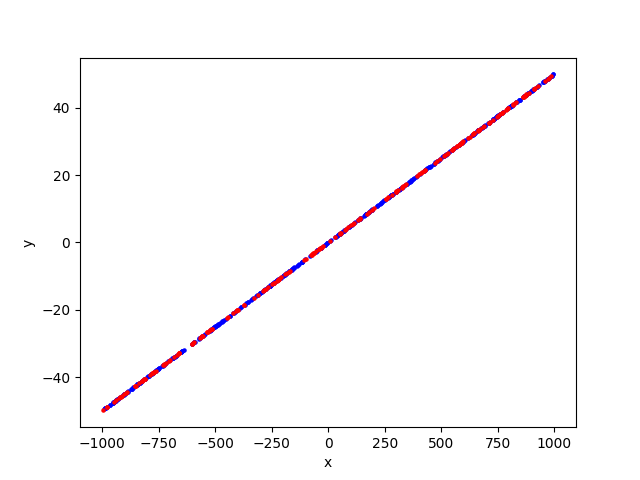
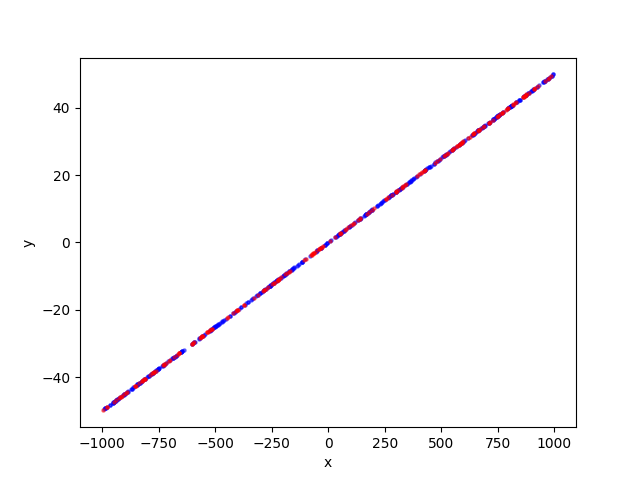
asdfghjk

diff --git a/bitalg/lab1/lab1.py b/bitalg/lab1/lab1.py
@@ -138,11 +138,11 @@ def draw_diff(A,B):
     vis.add_point(B, s=POINT_SIZE, color=['red'])
     vis.show()
 
-def draw_diff_and_save(A,B,filename,line=True, a=1):
+def draw_diff_and_save(A,B,filename,line=True, a=1,size=5):
     vis=Visualizer()
     if line: vis.add_line(((-1.0, 0.0), (1.0, 0.1)), color='green')
-    vis.add_point(A,s=POINT_SIZE,color=['blue'], alpha=a)
-    vis.add_point(B,s=POINT_SIZE,color=['red'], alpha=a)
+    vis.add_point(A,s=size,color=['blue'], alpha=a)
+    vis.add_point(B,s=size,color=['red'], alpha=a)
     vis.show()
     vis.save(filename)
 
@@ -213,10 +213,10 @@ draw_line_and_save(checked_points2[0][0][0],checked_points2[0][0][1],checked_poi
 f = open("points2diffs.txt","x")
 A1,B1=diff_cheker(checked_points2[0][0],checked_points2[0][1])
 print(A1,B1,file=f)
-draw_diff_and_save(A1,B1,"points2_diff_2x2handlib")
+draw_diff_and_save(A1,B1,"points2_diff_2x2handlib",True,1,30)
 A2,B2=diff_cheker(checked_points2[0][0],checked_points2[0][3])
 print(A2,B2,file=f)
-draw_diff_and_save(A2,B2,"points2_dif_2x2hand_3x3hand")
+draw_diff_and_save(A2,B2,"points2_dif_2x2hand_3x3hand",True,1,30)
 f.close()
 
 draw_line_and_save(checked_points_line[0][0][0],checked_points_line[0][0][1],checked_points_line[0][0][2],"points_line_2x2hand_eps0",False)
@@ -229,15 +229,15 @@ draw_spectrum_and_save(checked_points_line,2,"line_spctrum_3x3hand_depth2",1)
 draw_spectrum_and_save(checked_points_line,3,"line_spctrum_3x3lib_depth3",2)
 
 A3,B3=diff_cheker(checked_points_line[0][0],checked_points_line[0][2])
-draw_diff_and_save(A3,B3,"points_line_diff_2x2hand_3x3hand_eps0",False)
+draw_diff_and_save(A3,B3,"points_line_diff_2x2hand_3x3hand_eps0",False,0.5)
 A4,B4=diff_cheker(checked_points_line[0][1],checked_points_line[0][3])
-draw_diff_and_save(A4,B4,"points_line_diff_2x2lib_3x3lib_eps0",False)
+draw_diff_and_save(A4,B4,"points_line_diff_2x2lib_3x3lib_eps0",False,0.5)
 A5,B5=diff_cheker(checked_points_line[1][0],checked_points_line[1][2])
-draw_diff_and_save(A5,B5,"points_line_diff_2x2hand_3x3hand_eps-14",False)
+draw_diff_and_save(A5,B5,"points_line_diff_2x2hand_3x3hand_eps-14",False,0.5)
 A6,B6=diff_cheker(checked_points_line[1][2],checked_points_line[1][3])
-draw_diff_and_save(A6,B6,"points_line_diff_3x3hand_3x3lib_eps-14",False)
+draw_diff_and_save(A6,B6,"points_line_diff_3x3hand_3x3lib_eps-14",False,0.5)
 A7,B7=diff_cheker(checked_points_line[1][0],checked_points_line[1][1])
-draw_diff_and_save(A7,B7,"points_line_diff_2x2hand_2x2lib_eps-14",False)
+draw_diff_and_save(A7,B7,"points_line_diff_2x2hand_2x2lib_eps-14",False,0.5)
 
 
 
